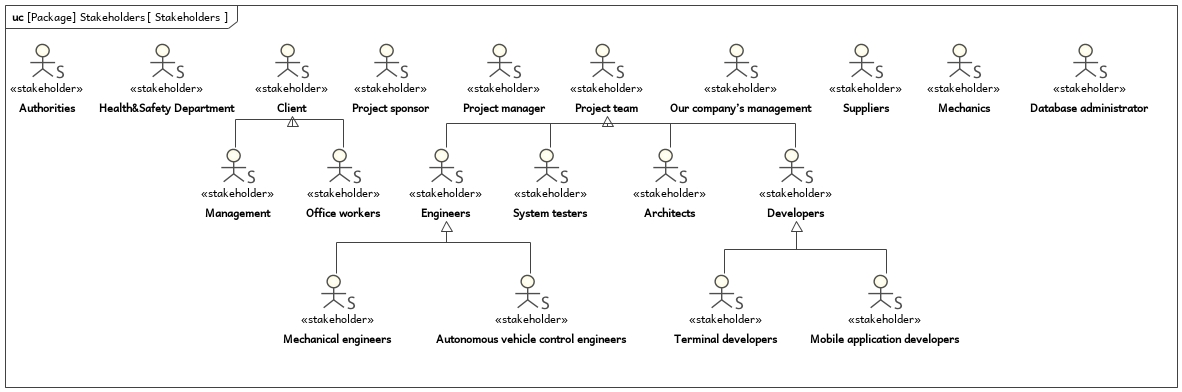
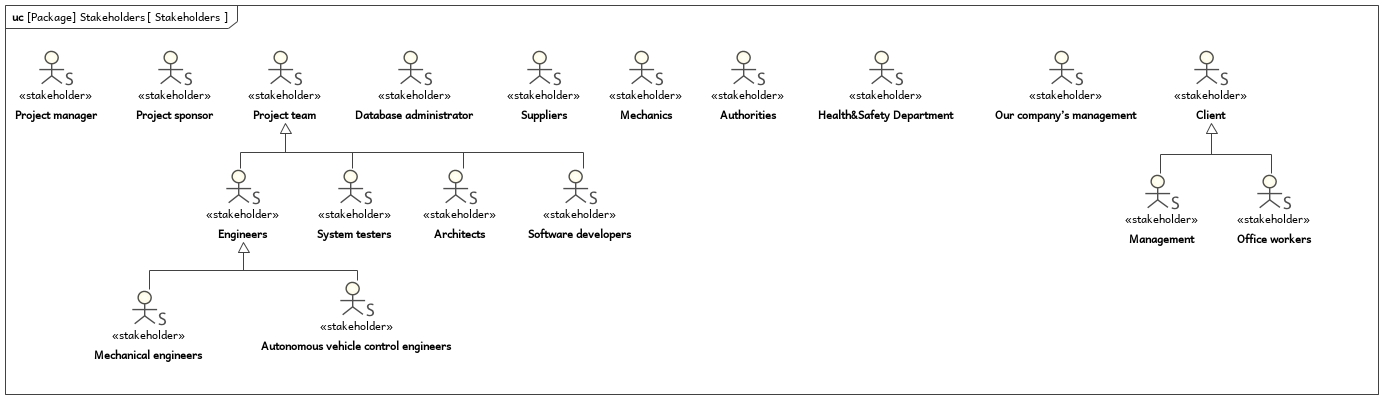
fix: Remove distinction between developers

diff --git a/doc/1-requirement_analysis/1-requirement_analysis.tex b/doc/1-requirement_analysis/1-requirement_analysis.tex
@@ -173,12 +173,8 @@ See~\cref{fig:stakeholders} for a diagram describing the relations of these
 		Engineers specialized in working with automotive mechanical
 		systems, such as the buses themselves.
 
-	\item[\gls{mobileApplication} developers]
-		They create, maintain and implement \gls{mobileApplication}s
-		that meet the requirements of the clients.
-
-	\item[\gls{terminal} developers]
-		% FIXME what is this
+	\item[software developers]
+		They create, maintain and implement computer software.
 
 	\item[system testers]
 		A group that creates testing plans for the system and identifies
